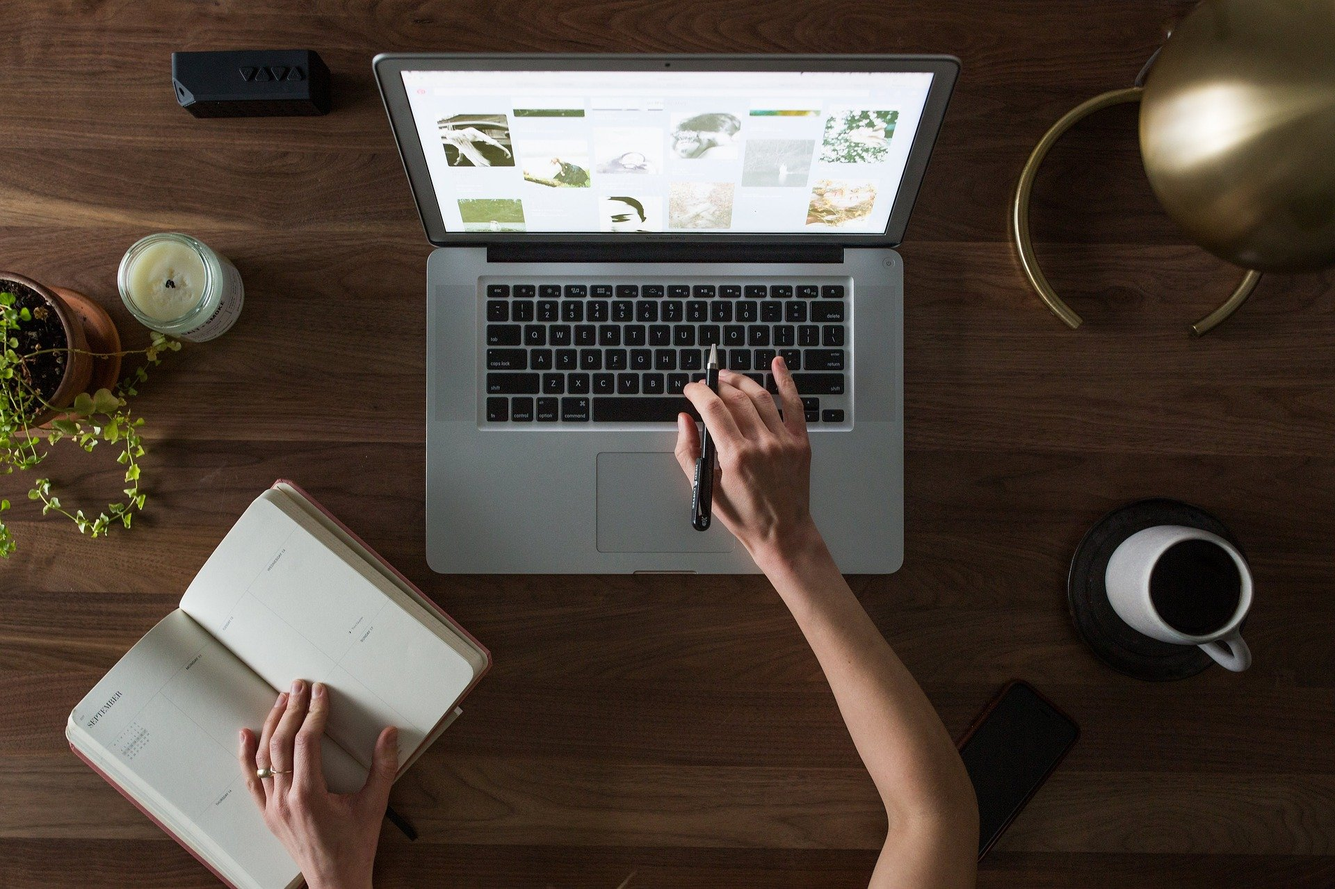
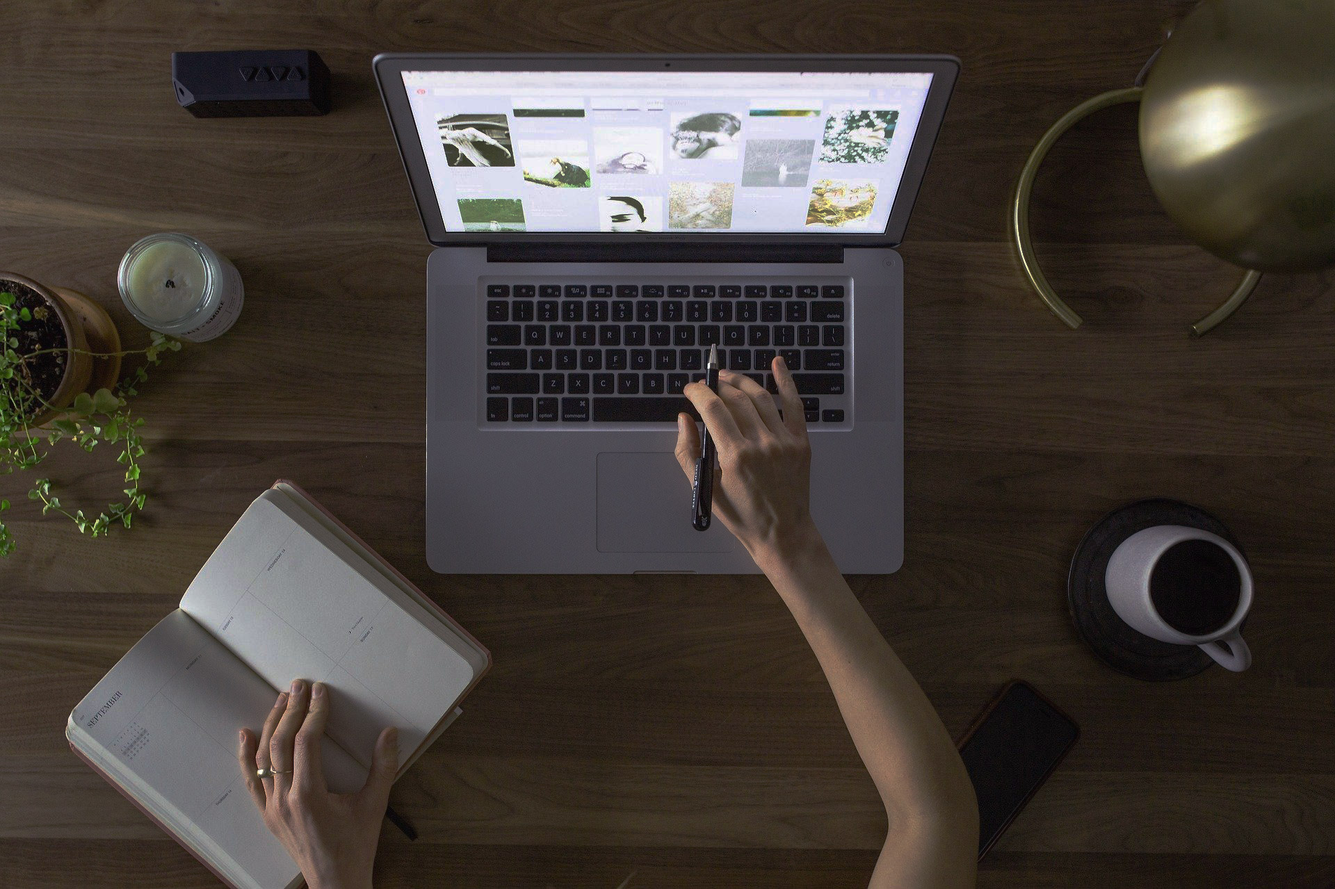
写真を変更した

diff --git a/dist/bundle.js b/dist/bundle.js
@@ -16,7 +16,6 @@ $(function() {
 });
 
 //message
-$(function(){
   $(window).scroll(function(){
     $('.js-fadeUp').each(function(){
       var targetElement = $(this).offset().top;
@@ -29,9 +28,7 @@ $(function(){
       }
     });
   });
-});
 
-$(function(){
   $(window).scroll(function(){
     $('.js-slideInto').each(function(){
       var targetElement = $(this).offset().top;
@@ -43,9 +40,7 @@ $(function(){
        }
      });
    });
- });
 
- $(function(){
   $(window).scroll(function(){
     $('.js-slideUp').each(function(){
       var targetElement = $(this).offset().top;
@@ -57,10 +52,8 @@ $(function(){
        }
      });
    });
- });
 
 //contact
- $(function(){
    $(window).scroll(function(){
      $('.js-fadeIn').each(function(){
        var targetElement = $(this).offset().top;
@@ -72,10 +65,7 @@ $(function(){
        }
      });
    });
- });
 
-
-  $(function(){
     $(window).scroll(function (){
         $('.js-slideIn').each(function(){
             var targetElement = $(this).offset().top;
@@ -87,7 +77,6 @@ $(function(){
         }
       });
     });
-  });
   
   //キービジュアルのスライドショー
   const pics_src = ["../images/image.1.jpeg","../images/image.2.jpeg","../images/image.3.jpeg"];

diff --git a/src/app.js b/src/app.js
@@ -15,7 +15,6 @@ $(function() {
 });
 
 //message
-$(function(){
   $(window).scroll(function(){
     $('.js-fadeUp').each(function(){
       var targetElement = $(this).offset().top;
@@ -28,9 +27,7 @@ $(function(){
       }
     });
   });
-});
 
-$(function(){
   $(window).scroll(function(){
     $('.js-slideInto').each(function(){
       var targetElement = $(this).offset().top;
@@ -42,9 +39,7 @@ $(function(){
        }
      });
    });
- });
 
- $(function(){
   $(window).scroll(function(){
     $('.js-slideUp').each(function(){
       var targetElement = $(this).offset().top;
@@ -56,10 +51,8 @@ $(function(){
        }
      });
    });
- });
 
 //contact
- $(function(){
    $(window).scroll(function(){
      $('.js-fadeIn').each(function(){
        var targetElement = $(this).offset().top;
@@ -71,10 +64,7 @@ $(function(){
        }
      });
    });
- });
 
-
-  $(function(){
     $(window).scroll(function (){
         $('.js-slideIn').each(function(){
             var targetElement = $(this).offset().top;
@@ -86,7 +76,6 @@ $(function(){
         }
       });
     });
-  });
   
   //キービジュアルのスライドショー
   const pics_src = ["../images/image.1.jpeg","../images/image.2.jpeg","../images/image.3.jpeg"];

diff --git a/scss/layout/_skill.scss b/scss/layout/_skill.scss
@@ -3,7 +3,7 @@
 //===========
 #skill{
     width: 100%;
-    background-image:url(../images/image.21.jpg);
+    background-image:url(../images/image.24.jpg);
     background-size: contain;
     background-size: cover;
     background-repeat: no-repeat;

diff --git a/css/app.css b/css/app.css
@@ -329,7 +329,7 @@ img {
 
 #skill {
   width: 100%;
-  background-image: url(../images/image.21.jpg);
+  background-image: url(../images/image.24.jpg);
   background-size: contain;
   background-size: cover;
   background-repeat: no-repeat;
